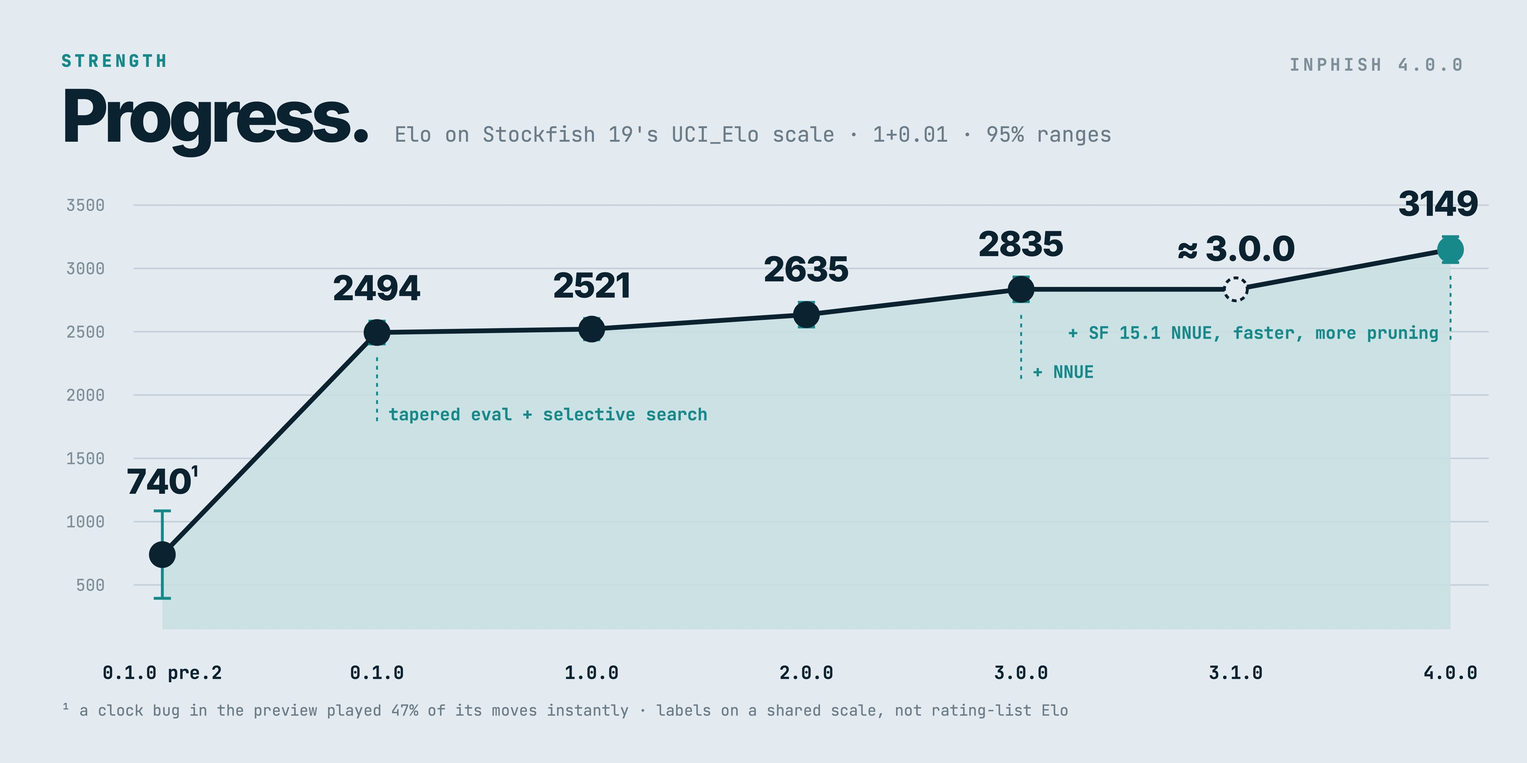
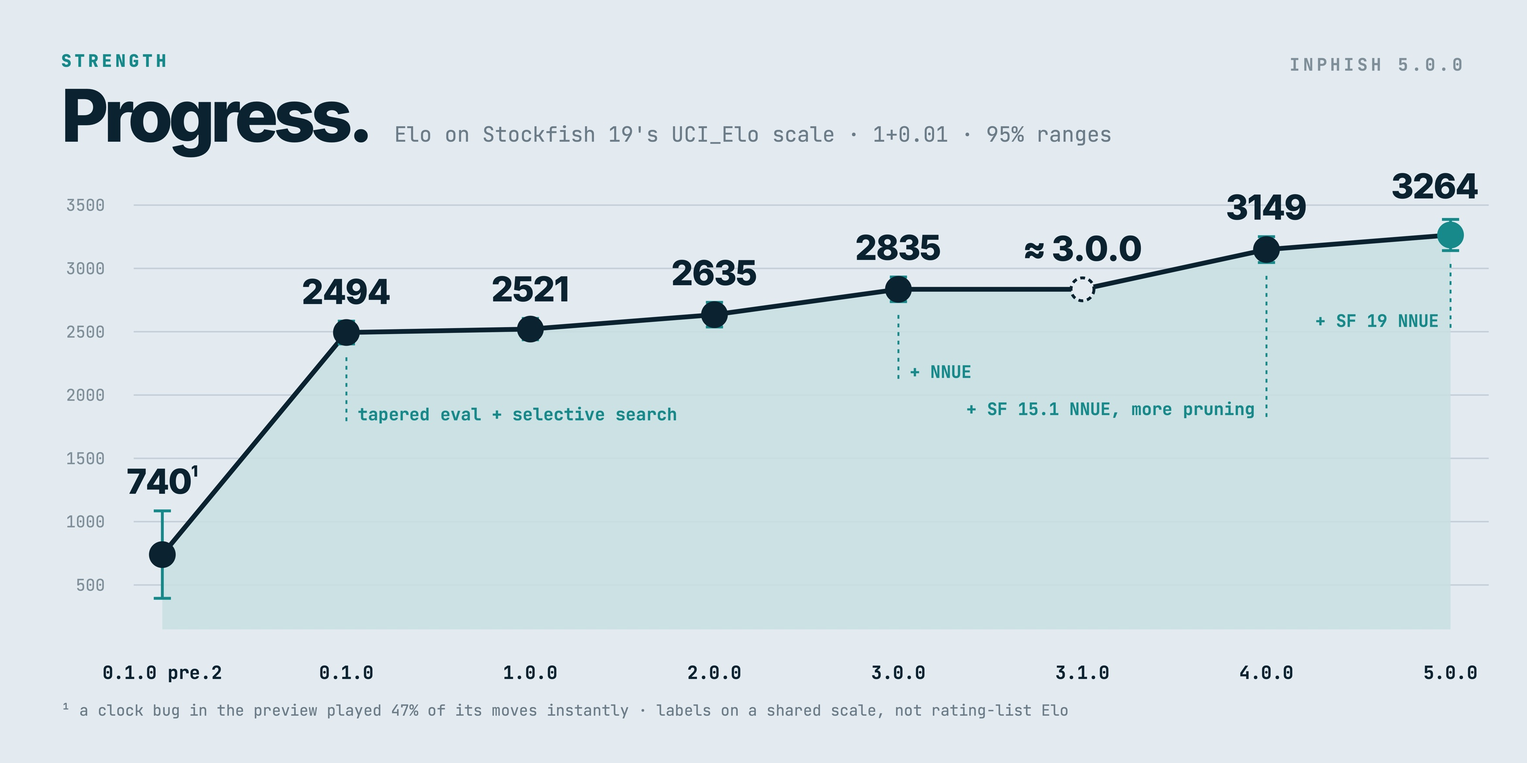
Prepare 5.0.0
Bump the version, add the 5.0.0 changelog entry, and update the README,
figures, testing notes, architecture and roadmap for Stockfish 19's
network, the opening book and the recalibrated UCI_Elo. Checks on
18dbaeb at 1+0.01: 20/20 against Morstilia and MaiEngine, 16 and 12.5
of 20 against Stockfish 19 at UCI_Elo 3000 and 3190 (ladder fit
3264 +- 123), 17.5/20 in Chess960 against Stockfish at 2800, and 23/40
for the network against 4.0.0.

Bench 74474.

diff --git a/docs/ARCHITECTURE.md b/docs/ARCHITECTURE.md
@@ -1,6 +1,6 @@
 # Engine architecture
 
-`inphzugzwang-core` owns the board, move rules, FEN, hashing, and perft traversal. It has no external dependencies or I/O. `inphzugzwang-eval` computes a tapered middlegame and endgame score from material, piece-square tables, mobility, pawn structure, passed pawns, rook files, the bishop pair, king attackers and pawn shield, pieces attacked by lesser pieces, undefended attacked pieces, knight outposts, and passed-pawn king distance, with pawnless endgames scaled toward a draw when the stronger side has at most a minor piece extra. Every term reads a (middlegame, endgame) weight pair from `weights.rs` through a sink, so the tuner in `tools/tune` records exactly the features the engine sums. `inphzugzwang-nnue` bundles Stockfish 19's network `nn-1a298aa575a0`, parses it at startup, and evaluates it with integer arithmetic that reproduces Stockfish 19 exactly. Each side's perspective sums 1,024 feature-transformer weights and eight piece-square values over three feature sets: HalfKAv2_hm pieces relative to one of 32 buckets of its own king square, threats of one piece on another (pawns on knights and rooks, knights and queens on every piece but kings, bishops and rooks on every piece but queens and kings), and pairs of pawns on the same or neighbouring files. Piece squares mirror the board so that the king stands on files e to h, threats and pawn pairs so that it stands on files a to d, and both rotate for Black. The two halves of each perspective are clipped to 0..255 and multiplied pairwise, side to move first, and the piece count picks one of eight layer stacks: a 1024-to-32 layer that reads only the groups of four inputs that are not zero, whose outputs pass on both squared and clipped to a 64-to-32 layer, whose outputs pass on the same way to a 128-to-1 output, plus the difference of the last two first-layer outputs and the piece-square difference. The affine layers use the dot-product instructions on aarch64 and AVX2 on x86-64 when the processor has them. A move's accumulator is its parent's with the changed features' rows added and subtracted in one tiled pass, with Neon on aarch64 and a second AVX2 build of the same loop on x86-64. The changed threats and pawn pairs are found by listing, before and after the move, those from, onto or through the squares the move changes. A king move refreshes its side's accumulator: the piece-square part from a per-thread cache holding the last one for each king square, adding and removing only the pieces that differ, and the threats and pawn pairs summed afresh. `inphzugzwang-syzygy` probes Syzygy WDL and DTZ tables, ported from Stockfish 13's `tbprobe`: tables are registered from the `.rtbw` files found, memory mapped on first use on Unix (read into memory elsewhere), and probed with Stockfish's indexing, Huffman and recursive-pairing decompression, and capture resolution. `inphzugzwang-search` owns iterative deepening, principal variation search, the transposition table, quiescence search, move ordering, and clock limits. `inphish` handles UCI, diagnostic commands, and bench output.
+`inphzugzwang-core` owns the board, move rules, FEN, hashing, and perft traversal. It has no external dependencies or I/O. `inphzugzwang-eval` computes a tapered middlegame and endgame score from material, piece-square tables, mobility, pawn structure, passed pawns, rook files, the bishop pair, king attackers and pawn shield, pieces attacked by lesser pieces, undefended attacked pieces, knight outposts, and passed-pawn king distance, with pawnless endgames scaled toward a draw when the stronger side has at most a minor piece extra. Every term reads a (middlegame, endgame) weight pair from `weights.rs` through a sink, so the tuner in `tools/tune` records exactly the features the engine sums. `inphzugzwang-nnue` bundles Stockfish 19's network `nn-1a298aa575a0`, parses it at startup, and evaluates it with integer arithmetic that reproduces Stockfish 19 exactly. Each side's perspective sums 1,024 feature-transformer weights and eight piece-square values over three feature sets: HalfKAv2_hm pieces relative to one of 32 buckets of its own king square, threats of one piece on another (pawns on knights and rooks, knights and queens on every piece but kings, bishops and rooks on every piece but queens and kings), and pairs of pawns on the same or neighbouring files. Piece squares mirror the board so that the king stands on files e to h, threats and pawn pairs so that it stands on files a to d, and both rotate for Black. The two halves of each perspective are clipped to 0..255 and multiplied pairwise, side to move first, and the piece count picks one of eight layer stacks: a 1024-to-32 layer that reads only the groups of four inputs that are not zero, whose outputs pass on both squared and clipped to a 64-to-32 layer, whose outputs pass on the same way to a 128-to-1 output, plus the difference of the last two first-layer outputs and the piece-square difference. The affine layers use the dot-product instructions on aarch64 and AVX2 on x86-64 when the processor has them. A move's accumulator is its parent's with the changed features' rows added and subtracted in one tiled pass, with Neon on aarch64 and a second AVX2 build of the same loop on x86-64. The changed threats and pawn pairs are found by listing, before and after the move, those from, onto or through the squares the move changes. A king move refreshes its side's accumulator: the piece-square part from a per-thread cache holding the last one for each king square, adding and removing only the pieces that differ, and the threats and pawn pairs summed afresh. `inphzugzwang-book` computes Polyglot keys, hashing the en-passant file whenever a pawn of the side to move stands next to the pawn that moved two squares, pinned or not, as the format defines it, and finds a position's moves in a book of sorted 16-byte entries by binary search, matching them against the legal moves so that key collisions are ignored. It bundles inphish's own book, built by `tools/book` from Lichess games. `inphzugzwang-syzygy` probes Syzygy WDL and DTZ tables, ported from Stockfish 13's `tbprobe`: tables are registered from the `.rtbw` files found, memory mapped on first use on Unix (read into memory elsewhere), and probed with Stockfish's indexing, Huffman and recursive-pairing decompression, and capture resolution. `inphzugzwang-search` owns iterative deepening, principal variation search, the transposition table, quiescence search, move ordering, and clock limits. `inphish` handles UCI, diagnostic commands, and bench output.
 
 Squares use a1 = 0 through h8 = 63. The board combines piece-type bitboards, color bitboards, and a mailbox. A move stores origin, destination, and flag in 16 bits. Castling destinations in moves are the rook's starting square; the command formatter translates to king destinations for standard UCI notation.
 
@@ -12,4 +12,4 @@ Position history is reserved before play and stores full states for exact unmake
 
 The UCI controller reads input on a dedicated thread and runs search on a separate large-stack thread. The controller alone writes to stdout. A stop flag interrupts the search; only the last fully completed iteration can replace the chosen move. The clock has soft and hard limits. A nearly exhausted clock is answered on the controller thread by a 1,000-node search, about a millisecond, so thread setup cannot consume the remaining time. With `Threads` above one the search is Lazy SMP: helper threads run their own iterative deepening on the same position, starting at depth 1 or 2 and with their own history tables, and share only the transposition table and a node counter. The main thread alone manages time, reports, and picks the move, and stops the helpers when it finishes.
 
-The search keeps one network accumulator and one move list per ply. Each move derives the next accumulator from the previous by the features it removes and adds, and a king move refreshes its own side's perspective through the cache. The static evaluation is Stockfish 19's evaluation without its optimism term, which shrinks the network output where its two parts disagree, scales it with the material left and damps it by the fifty-move counter, converted at 208 internal units per pawn. With `SyzygyPath` set and a root position of at most the tables' piece count and no castling rights, the root moves are ranked by DTZ as in Stockfish, only the best-ranked ones are searched, and the tablebase result is reported unless a mate is found. Otherwise the search probes WDL at nodes just after a capture or pawn move and returns decided wins, losses and draws, storing them in the transposition table. The search scores from the side-to-move perspective. From depth 5 each iteration starts with a 25-centipawn aspiration window around the previous score and doubles it on a fail, falling back to a full window. Checks extend by one ply. Windows are clipped to the mate distances reachable from the current ply. The transposition table is probed before any move is generated. Non-PV nodes use reverse futility pruning and null-move pruning when the side to move has a piece, both reading the stored score instead of the static evaluation where its bound makes it the tighter estimate, then ProbCut from depth 5: a capture that beats beta by 200 in quiescence and then at four plies less depth ends the node. Nodes without a stored move from depth 4 are searched a ply shallower. Near the leaves, late move pruning, futility pruning, history pruning and static-exchange pruning skip quiet moves, and static-exchange pruning skips captures that lose too much material. Late quiet moves are searched at a logarithmically reduced depth, two plies less at nodes expected to fail high, and re-searched when they beat alpha. Moves are ordered by the table move, captures that do not lose material by static exchange evaluation, two killers, a counter move for the previous move's piece and destination, butterfly history plus a one-ply continuation history keyed by the same previous move, and finally losing captures. A per-side pawn-structure correction history adds the average error that searches found for the current pawn structure to the static evaluation used for pruning and stand-pat. With `UCI_LimitStrength` on, the search caps its nodes at 200 for the lowest `UCI_Elo`, doubling every 240 Elo up to the highest setting of 3000, searches at least four lines, and chooses among them the way Stockfish's skill level does: each line's score is raised in proportion to its gap from the best line plus a random share of the score spread, both scaled by a weakness that falls linearly to nothing at 2600. Above 2600 only the node budget limits play. With `MultiPV` above one, each later line searches the root moves not heading an earlier line once the first line of the depth completes. A single repetition inside the search is scored as a draw. Quiescence searches captures and promotions that do not lose material and whose victim could lift the stand-pat score within 200 centipawns of alpha, or all legal evasions while in check, and probes and stores the transposition table at depth zero. The transposition table uses four entries per 64-byte cluster. Its atomic key is XORed with the packed entry so an inconsistent concurrent read is unlikely to match the full position key. Entries persist across UCI searches and are replaced when the hash is resized or cleared. It reports mate distance, nodes, hash occupancy, elapsed time, and a principal variation. The deterministic bench searches 50 fixed positions at depth 4 with no clock limit and a fresh table per position.
+The search keeps one network accumulator and one move list per ply. Each move derives the next accumulator from the previous by the features it removes and adds, and a king move refreshes its own side's perspective through the cache. The static evaluation is Stockfish 19's evaluation without its optimism term, which shrinks the network output where its two parts disagree, scales it with the material left and damps it by the fifty-move counter, converted at 208 internal units per pawn. With `SyzygyPath` set and a root position of at most the tables' piece count and no castling rights, the root moves are ranked by DTZ as in Stockfish, only the best-ranked ones are searched, and the tablebase result is reported unless a mate is found. Otherwise the search probes WDL at nodes just after a capture or pawn move and returns decided wins, losses and draws, storing them in the transposition table. The search scores from the side-to-move perspective. From depth 5 each iteration starts with a 25-centipawn aspiration window around the previous score and doubles it on a fail, falling back to a full window. Checks extend by one ply. Windows are clipped to the mate distances reachable from the current ply. The transposition table is probed before any move is generated. Non-PV nodes use reverse futility pruning and null-move pruning when the side to move has a piece, both reading the stored score instead of the static evaluation where its bound makes it the tighter estimate, then ProbCut from depth 5: a capture that beats beta by 200 in quiescence and then at four plies less depth ends the node. Nodes without a stored move from depth 4 are searched a ply shallower. Near the leaves, late move pruning, futility pruning, history pruning and static-exchange pruning skip quiet moves, and static-exchange pruning skips captures that lose too much material. Late quiet moves are searched at a logarithmically reduced depth, two plies less at nodes expected to fail high, and re-searched when they beat alpha. Moves are ordered by the table move, captures that do not lose material by static exchange evaluation, two killers, a counter move for the previous move's piece and destination, butterfly history plus a one-ply continuation history keyed by the same previous move, and finally losing captures. A per-side pawn-structure correction history adds the average error that searches found for the current pawn structure to the static evaluation used for pruning and stand-pat. With `UCI_LimitStrength` on, the search caps its nodes by a budget interpolated between calibration points, from about 170 nodes at the lowest `UCI_Elo` to about 25,000 at the highest setting of 3000, searches at least four lines, and chooses among them the way Stockfish's skill level does: each line's score is raised in proportion to its gap from the best line plus a random share of the score spread, both scaled by a weakness that falls linearly to nothing at 2600. Above 2600 only the node budget limits play. With `MultiPV` above one, each later line searches the root moves not heading an earlier line once the first line of the depth completes. A single repetition inside the search is scored as a draw. Quiescence searches captures and promotions that do not lose material and whose victim could lift the stand-pat score within 200 centipawns of alpha, or all legal evasions while in check, and probes and stores the transposition table at depth zero. The transposition table uses four entries per 64-byte cluster. Its atomic key is XORed with the packed entry so an inconsistent concurrent read is unlikely to match the full position key. Entries persist across UCI searches and are replaced when the hash is resized or cleared. It reports mate distance, nodes, hash occupancy, elapsed time, and a principal variation. The deterministic bench searches 50 fixed positions at depth 4 with no clock limit and a fresh table per position.

diff --git a/docs/TESTING.md b/docs/TESTING.md
@@ -138,7 +138,9 @@ All Morstilia games ended in checkmate. 17 of the MaiEngine games were MaiEngine
 
 ## Network evaluation
 
-`tests/nnue/reference.txt` lists 2,086 positions with the two network values, after division by 16 and for the side to move, that Stockfish 15.1 computes for them with `nn-ad9b42354671`: plain and adjusted for material, `Eval::NNUE::evaluate(pos, false)` and `(pos, true)`. `tools/nnue_reference.py` produced it from a local Stockfish 15.1 build (tag `sf_15.1`) extended by one UCI command, `rawnnue`, printing both. The positions are the perft suites, ten Chess960 starts, the balanced book, and every seventh position of 170 random playouts. inphish's inference matches every value exactly. A second test derives each accumulator from its parent along every line to depth 3 from the standard and Chess960 perft positions, over 100,000 moves, with king moves refreshed through the cache shared across the walk, and compares values and piece-square sums with an accumulator computed from scratch. A third compares the vector dot products with the plain loop on random and extreme inputs. The Linux and Windows CI jobs run these tests on x86-64 with AVX2. Until 4.0 the references came in the same way from Stockfish 13 and its network `nn-62ef826d1a6d`.
+`tests/nnue/reference.txt` lists 2,253 positions with three values that Stockfish 19 computes for them with `nn-1a298aa575a0`, in internal units for the side to move: the network's piece-square and positional outputs, each divided by 16, and `Eval::evaluate` with no optimism, left out in check. `tools/nnue_reference.py` produced it from a local Stockfish 19 build extended by one UCI command, `rawnnue`, printing all three. The positions are the perft suites, ten Chess960 starts, the balanced book, and every seventh position of 170 random playouts. inphish's inference matches every value exactly. A second test derives each accumulator from its parent along every line to depth 3 from the standard and Chess960 perft positions, over 100,000 moves, with the changed threats and pawn pairs found around the squares each move changes and king moves refreshed through the cache shared across the walk, and compares values and piece-square sums with an accumulator computed from scratch. Two more compare the vector dot products and the sparse first layer with plain loops on random and extreme inputs. The Linux and Windows CI jobs run these tests on x86-64 with AVX2. Until 5.0 the references came in the same way from Stockfish 15.1 and `nn-ad9b42354671`, and before 4.0 from Stockfish 13 and `nn-62ef826d1a6d`.
+
+The Polyglot tests check keys against the nine published with the book format, including en-passant cases, and a position whose only pawn next to a double-pushed pawn is pinned, whose key must still include the en-passant file as the format specifies. Others read weighted moves and castling, given as the king taking its rook, from a small book, skip a colliding illegal move, and reject malformed files. The UCI test checks the book options, that the book is off by default and used only for ordinary searches within the book depth, and that `BookFile` loads a one-entry book. The book builder's own tests read Lichess movetext with clock comments, disambiguation and promotions.
 
 ## 3.0 candidate checks
 
@@ -211,6 +213,24 @@ Revision `5582e0c` (bench 66999), one thread, Hash 16 MiB, 1+0.01, two concurren
 | Stockfish 19, `UCI_Elo` 2800, Chess960 book | 20 | 11 | 6 | 3 | 12.5 |
 
 All Morstilia games ended in checkmate. 11 of the MaiEngine games were MaiEngine time forfeits; MaiEngine was rebuilt from its repository at `3d710dc` with the .NET 10 SDK. inphish lost no game on time and made no illegal move. The ladder fit over the three rungs is 3149 ± 102 at 1+0.01, against 2835 ± 97 for 3.0.0; 3190 is Stockfish's highest `UCI_Elo`, so the estimate leans on the top rung. The network build `dfbfc45` alone had scored 14 of 20 at 3000 (10 wins, 2 losses, 8 draws). Matches from 4.0 on used fastchess 1.8.2-alpha built from source.
+
+## 5.0 candidate checks
+
+The Stockfish 19 network (`d73c0a8`, bench 74474) against 4.0.0 at 1+0.01, Hash 16 MiB, balanced book: 40 games, 17 wins, 11 losses, 12 draws, 23 of 40, although it searched about 672,000 nodes per second on a middlegame position against 1.29 million for 4.0.0 (Stockfish 19 itself runs at about 1.03 million on the same machine).
+
+With the new network `UCI_Elo` kept 12 of 20 at 1600 but scored 17.5 of 20 at 2200 against Stockfish 19 at the same setting, so the single rule of 200 nodes doubling every 240 Elo was replaced by node budgets interpolated between calibration points. Tried budgets, as base-2 logarithms of nodes: 2200 at 9.4 scored 4 of 20 and at 10.3 12.5 of 20; 2600 at 11.0 scored 10.5 of 20; 3000 at 13.6 scored 5 of 20 and at 14.6 10 of 20; 2800 at 13.3 scored 14.5 of 20. The adopted points are 1320 at 7.4, 1600 at 8.4, 2200 at 10.3, 2600 at 11.0, 2800 at 12.8 and 3000 at 14.6, and on `18dbaeb` scored 13.5 of 20 at 1600 (13 wins, 6 losses, 1 draw) and 10.5 at 2800 (9 wins, 8 losses, 3 draws).
+
+Revision `18dbaeb` (bench 74474), one thread, Hash 16 MiB, 1+0.01, two concurrent games, balanced book with colours swapped unless noted, opening book off.
+
+| Opponent | Games | Wins | Losses | Draws | Score |
+|---|---|---|---|---|---|
+| Morstilia 6.0.0 | 20 | 20 | 0 | 0 | 20.0 |
+| MaiEngine | 20 | 20 | 0 | 0 | 20.0 |
+| Stockfish 19, `UCI_Elo` 3000 | 20 | 15 | 3 | 2 | 16.0 |
+| Stockfish 19, `UCI_Elo` 3190 | 20 | 9 | 4 | 7 | 12.5 |
+| Stockfish 19, `UCI_Elo` 2800, Chess960 book | 20 | 16 | 1 | 3 | 17.5 |
+
+All Morstilia games ended in checkmate. 15 of the MaiEngine games were MaiEngine time forfeits. inphish lost no game on time and made no illegal move. The ladder fit over the two rungs is 3264 ± 123 at 1+0.01, against 3149 ± 102 for 4.0.0 over three; 3190 is Stockfish's highest `UCI_Elo`, so the estimate leans on the top rung. The win, draw and loss model was refitted to 4,674 evaluations from 40 self-play games of `18dbaeb` on the random openings, 27 of them drawn; the earlier fits had been held at the edge of the search grid, which is now wider.
 
 ## Optional SPRT
 

diff --git a/docs/ROADMAP.md b/docs/ROADMAP.md
@@ -11,13 +11,17 @@ The original plan divided the engine into nine phases, ending with NNUE, tableba
 | 3. Search infrastructure | Partly built: transposition table, principal variation search, aspiration windows, killers, butterfly and one-ply continuation history, static exchange evaluation for ordering and quiescence pruning, and since 2.0 a counter-move table and mate distance pruning. A lazily picked move list was tried in 2.0 and dropped as no faster. In 4.0 capture history and a second continuation history were tried and dropped. |
 | 4. Pruning and reductions | Partly built: reverse futility, null-move, late move and futility pruning, late move reductions, check extensions. Since 2.0, pawn-structure correction history. Since 4.0, ProbCut, internal iterative reductions, history and static-exchange pruning, extra reductions at expected cut nodes, and delta pruning in quiescence. No razoring. An improving flag and, in 2.0, singular extensions were tried and dropped. |
 | 5. Evaluation | Superseded in 3.0 by the network for play. Partly built: tapered hand-written evaluation with PeSTO starting tables, mobility, pawn structure, passed pawns, king safety, threats, and outposts, plus a Texel tuner. A full tune on the available games did worse in play and was not adopted; the weights are mostly hand-set. |
-| 6. Parallelism and polish | Mostly built in 2.0: Lazy SMP through `Threads`, `MultiPV`, WDL output, strength limiting through `UCI_Elo`, and the `UCI_Chess960` option. No pondering beyond the UCI plumbing and no Polyglot book. |
+| 6. Parallelism and polish | Mostly built in 2.0: Lazy SMP through `Threads`, `MultiPV`, WDL output, strength limiting through `UCI_Elo`, and the `UCI_Chess960` option. No pondering beyond the UCI plumbing. A Polyglot book followed in 5.0. |
 | 7. Syzygy tablebases | Built in 3.1: WDL and DTZ probing ported from Stockfish 13, exact against it on 3,974 reference positions, with DTZ ranking at the root and WDL cutoffs in the search. |
-| 8. NNUE | Built in 3.0 with Stockfish 13's network `nn-62ef826d1a6d`, and since 4.0 with Stockfish 15.1's `nn-ad9b42354671`, rather than a network of inphish's own: exact inference, incremental accumulators with a king-square refresh cache, and vector dot products are inphish's code. |
+| 8. NNUE | Built in 3.0 with Stockfish 13's network `nn-62ef826d1a6d`, in 4.0 with Stockfish 15.1's `nn-ad9b42354671`, and since 5.0 with Stockfish 19's `nn-1a298aa575a0`, which adds threat and pawn-pair inputs, rather than a network of inphish's own: exact inference, incremental accumulators with a king-square refresh cache, and vector dot products are inphish's code. |
 | 9. Release engineering | Built in a reduced form: four release archives (Linux x86-64, Windows x86-64, macOS Apple Silicon and Intel) without CPU-specific flavours. |
 
 Earlier strength-changing commits were measured by SPRT and those results stand as recorded in `docs/TESTING.md`. Later changes were checked with small bounded matches, which are directional evidence only.
 
 ## After 3.1
 
-Version 2.0 completed the parts of phase 6 that matter in a chess GUI. Version 3.0 replaced the hand-written evaluation with Stockfish 13's NNUE network, since training a network on inphish's own games is not practical on the available hardware; Stockfish and its networks are GPL-3.0, like inphish, and the network is named in the README and release notes. Version 3.1 added Syzygy tablebase probing. Version 4.0 aimed at playing strength alone: a faster search, Stockfish 15.1's larger network, and more selective pruning, which moved inphish from about 2835 to about 3150 on the Stockfish 19 `UCI_Elo` ladder at 1+0.01. Of the original phases, a Polyglot book and pondering beyond the UCI plumbing remain unbuilt, and nothing further is planned.
+Version 2.0 completed the parts of phase 6 that matter in a chess GUI. Version 3.0 replaced the hand-written evaluation with Stockfish 13's NNUE network, since training a network on inphish's own games is not practical on the available hardware; Stockfish and its networks are GPL-3.0, like inphish, and the network is named in the README and release notes. Version 3.1 added Syzygy tablebase probing. Version 4.0 aimed at playing strength alone: a faster search, Stockfish 15.1's larger network, and more selective pruning, which moved inphish from about 2835 to about 3150 on the Stockfish 19 `UCI_Elo` ladder at 1+0.01. Of the original phases, a Polyglot book and pondering beyond the UCI plumbing remained unbuilt after 4.0.
+
+## 5.0
+
+Version 5.0 moved to Stockfish 19's network, whose threat and pawn-pair inputs make each node about twice as expensive but scored 23 of 40 against 4.0.0 and placed inphish at about 3264 on the Stockfish 19 `UCI_Elo` ladder at 1+0.01, and added a bundled Polyglot opening book built from Lichess games, off by default. `UCI_Elo` was recalibrated for the new network. Of the original phases only pondering beyond the UCI plumbing remains unbuilt.

diff --git a/README.md b/README.md
@@ -57,7 +57,7 @@ No rating-list Elo has been measured. Each release is placed on Stockfish 19's `
 
 ![Elo per release on Stockfish 19's UCI_Elo scale at 1+0.01](docs/images/progress.jpg)
 
-The large steps are the preview to 0.1.0, which added the tapered evaluation and selective search, 3.0.0, which added the NNUE network, and 4.0.0, which moved to Stockfish 15.1's larger network with faster move generation and more selective search. Between 0.1.0 and 2.0.0 the differences are within the ranges. 4.0.0 scored about even against Stockfish at its highest setting, 3190, so its figure rests on the top of the scale and is the least certain. Head-to-head matches between versions exaggerate the gaps: 1.0.0 scored 30 of 40 against 0.1.0, 3.0.0 scored 34.5 of 40 against 2.0.0, 3.1.0 scored 36 and 38.5 of 40 against 1.0.0 and 2.0.0, and 4.0.0 scored 32 of 40 against 3.1.2.
+The large steps are the preview to 0.1.0, which added the tapered evaluation and selective search, 3.0.0, which added the NNUE network, 4.0.0, which moved to Stockfish 15.1's larger network with faster move generation and more selective search, and 5.0.0, which moved to Stockfish 19's network with threat and pawn-pair inputs. Between 0.1.0 and 2.0.0 the differences are within the ranges. 4.0.0 scored about even and 5.0.0 12.5 of 20 against Stockfish at its highest setting, 3190, so their figures rest on the top of the scale and are the least certain. Head-to-head matches between versions exaggerate the gaps: 1.0.0 scored 30 of 40 against 0.1.0, 3.0.0 scored 34.5 of 40 against 2.0.0, 3.1.0 scored 36 and 38.5 of 40 against 1.0.0 and 2.0.0, 4.0.0 scored 32 of 40 against 3.1.2, and 5.0.0 23 of 40 against 4.0.0, although it searches about half as many nodes per second.
 
 ![Match results against Stockfish 19, Morstilia V6 and MaiEngine](docs/images/results.jpg)
 
@@ -77,11 +77,12 @@ Compare versions within one column only. Match scores are wins / losses / draws 
 | [inphish v3.0.0](https://github.com/imInph/inphish/releases/tag/v3.0.0) | 2835 ± 97 | | 18 / 0 / 2 | 20 / 0 / 0 (4) |
 | [inphish v3.1.0](https://github.com/imInph/inphish/releases/tag/v3.1.0) | about 3.0.0 (5) | | 20 / 0 / 0 | 20 / 0 / 0 (4) |
 | [inphish v4.0.0](https://github.com/imInph/inphish/releases/tag/v4.0.0) | 3149 ± 102 | | 20 / 0 / 0 | 20 / 0 / 0 (4) |
+| [inphish v5.0.0](https://github.com/imInph/inphish/releases/tag/v5.0.0) | 3264 ± 123 | | 20 / 0 / 0 | 20 / 0 / 0 (4) |
 
 1. At 1+0.01 the preview's clock handling played 47% of its moves instantly without searching, so this measures that bug rather than the engine.
 2. At 10+0.1, on a build of the preview's era rather than the tagged revision.
 3. At 10+0.1. At 1+0.01 it scored 19 / 0 / 1 against Morstilia and 20 / 0 / 0 against MaiEngine, 18 of them MaiEngine time forfeits.
-4. At 1+0.01 MaiEngine lost many of these on time (16, 17, 15, 12 and 11 games for 1.0.0, 2.0.0, 3.0.0, 3.1.0 and 4.0.0), so they say little about playing strength. inphish lost no game on time.
+4. At 1+0.01 MaiEngine lost many of these on time (16, 17, 15, 12, 11 and 15 games for 1.0.0, 2.0.0, 3.0.0, 3.1.0, 4.0.0 and 5.0.0), so they say little about playing strength. inphish lost no game on time.
 5. Not placed on the ladder separately; it scored 21.5 and 19.5 of 40 against 3.0.0, where few games reach five pieces.
 
 </details>
@@ -128,7 +129,7 @@ Correctness tests and their reference data are described in [docs/TESTING.md](do
 
 ## Limitations
 
-inphish has no opening book or pondering and no evaluation network of its own. Tablebase support covers WDL and DTZ tables; on Windows each table file used is read into memory rather than mapped. [docs/ROADMAP.md](docs/ROADMAP.md) lists what was and was not built against the original plan.
+inphish has no pondering beyond the UCI plumbing and no evaluation network or opening book statistics of its own: the network is Stockfish's and the book is built from Lichess games. Tablebase support covers WDL and DTZ tables; on Windows each table file used is read into memory rather than mapped. [docs/ROADMAP.md](docs/ROADMAP.md) lists what was and was not built against the original plan.
 
 ## Acknowledgements
 

diff --git a/CHANGELOG.md b/CHANGELOG.md
@@ -1,5 +1,16 @@
 # inphzugzwang changelog
 
+## 5.0.0 - 2026-09-27
+
+- NNUE evaluation with Stockfish 19's network `nn-1a298aa575a0` (GPL-3.0) in place of Stockfish 15.1's `nn-ad9b42354671`. Besides the king-bucketed piece squares it reads threats of one piece on another and pairs of pawns on the same or neighbouring files, into the same 1024-wide accumulator with eight layer stacks. inphish's inference matches Stockfish 19 exactly on 2,253 reference positions, including its final evaluation formula, which the static evaluation now uses without the optimism term. Changed threats and pawn pairs are found around the squares each move changes, all changed rows are applied in one tiled Neon or AVX2 pass, and the first layer reads only non-zero input groups. The search runs at about half the nodes per second of 4.0.0 and still scored 23 of 40 against it.
+- A bundled Polyglot opening book of 6,378,170 entries (102 MB) built from Lichess games of August 2026 between players rated 2000 and above (CC0), behind the new options `OwnBook` (off by default), `BookFile` for another Polyglot book, `Book Depth` (40 plies) and `Book Best Move`. The book is not used in analysis, pondering, `searchmoves`, `MultiPV` above 1 or Chess960. `tools/book` rebuilds it; the source and filters are in `crates/inphzugzwang-book/book/README.md`. Polyglot keys follow the format exactly, including the en-passant file for a pinned pawn.
+- `UCI_Elo` node budgets now come from calibration points interpolated between, since the stronger network made the old doubling rule too strong in the middle of the range. Against Stockfish 19 at the same setting: 13.5/20 at 1600, 12.5/20 at 2200, 10.5/20 at 2600 and at 2800, 10/20 at 3000.
+- The win/draw/loss model behind `UCI_ShowWDL` was refitted to the new network, and now reads more drawish.
+- The binary is about 200 MB with the network and the book.
+- The license file is again the unmodified GPL-3.0 text; the copyright notice moved to the README.
+- Checks at 1+0.01, Hash 16 MiB, one thread: 23/40 against 4.0.0 (17 W / 11 L / 12 D); 20/20 against Morstilia 6.0.0, all checkmates; 20/20 against MaiEngine, 15 of them MaiEngine time forfeits; Stockfish 19 at `UCI_Elo` 3000 and 3190: 16 and 12.5 of 20 (4.0.0: 13.5 and 9.5), a ladder fit of 3264 ± 123 against 3149 ± 102 for 4.0.0; Chess960 against Stockfish at 2800: 17.5/20 (4.0.0: 12.5/20). No inphish time losses or illegal moves. Small samples, not Elo measurements.
+- Depth-4 bench signature: 74474 nodes.
+
 ## 4.0.0 - 2026-09-26
 
 - NNUE evaluation with Stockfish 15.1's HalfKAv2_hm network `nn-ad9b42354671` (GPL-3.0) in place of Stockfish 13's `nn-62ef826d1a6d`: king-bucketed, mirrored features including the kings, a 1024-wide accumulator with eight piece-square buckets, pairwise-multiplied inputs and eight layer stacks. inphish's inference matches Stockfish 15.1 exactly on 2,086 reference positions, plain and material-adjusted. King moves refresh through a per-thread cache of accumulators by king square. The binary grows to about 48 MB. The static evaluation follows Stockfish 15.1's scaling without its optimism term, and no longer falls back to the hand-written evaluation in bare endings.
